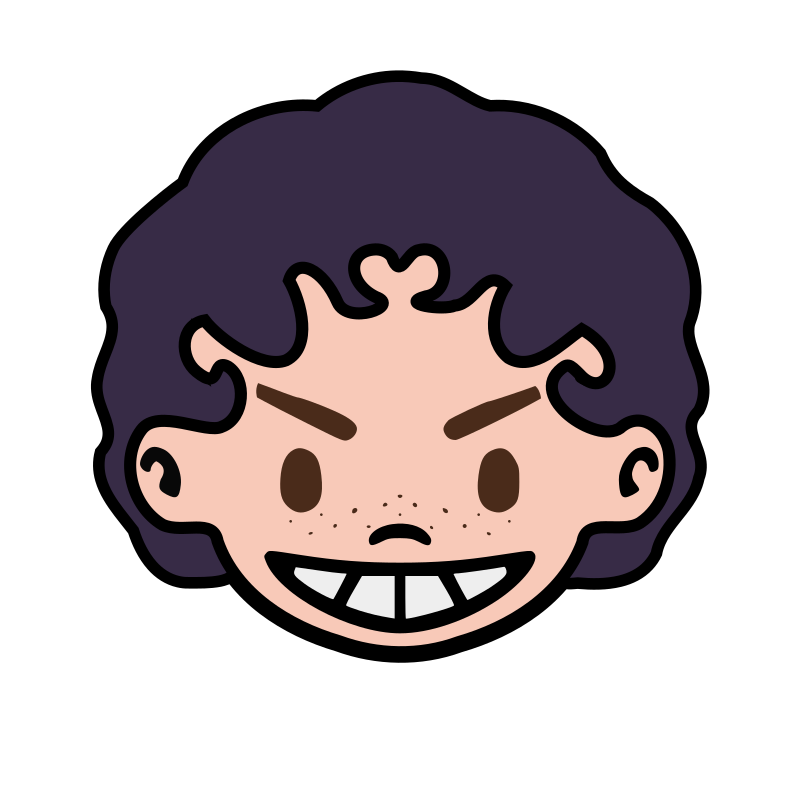
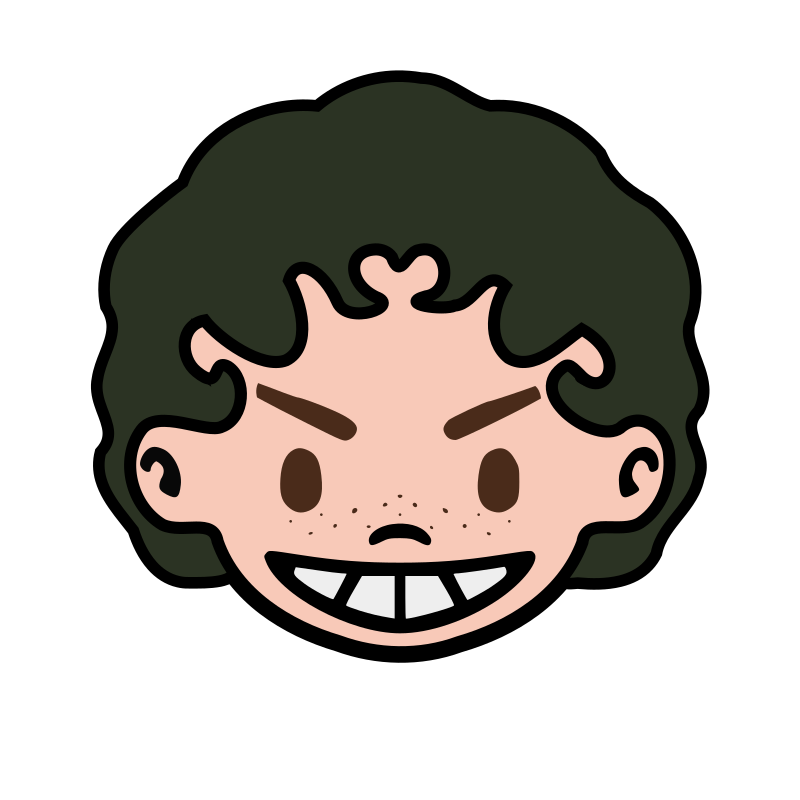
bang bang snapshoted!

Changed region(s): [[0.125, 0.0938, 0.875, 0.75]]

diff --git a/waybar/css/colors.css b/waybar/css/colors.css
@@ -3,103 +3,103 @@
 * Generated with Matugen
 */
 
-    @define-color background #141315;
+    @define-color background #131312;
 
     @define-color error #ffb4ab;
 
     @define-color error_container #93000a;
 
-    @define-color inverse_on_surface #313032;
+    @define-color inverse_on_surface #31302f;
 
-    @define-color inverse_primary #5e5b7b;
+    @define-color inverse_primary #59614f;
 
-    @define-color inverse_surface #e5e1e4;
+    @define-color inverse_surface #e5e2df;
 
-    @define-color on_background #e5e1e4;
+    @define-color on_background #e5e2df;
 
     @define-color on_error #690005;
 
     @define-color on_error_container #ffdad6;
 
-    @define-color on_primary #2f2d4a;
+    @define-color on_primary #2b3323;
 
-    @define-color on_primary_container #ffffff;
+    @define-color on_primary_container #e6efd8;
 
-    @define-color on_primary_fixed #1a1834;
+    @define-color on_primary_fixed #171e10;
 
-    @define-color on_primary_fixed_variant #464362;
+    @define-color on_primary_fixed_variant #414939;
 
-    @define-color on_secondary #302f3b;
+    @define-color on_secondary #2e312a;
 
-    @define-color on_secondary_container #e6e2f2;
+    @define-color on_secondary_container #dfe1d6;
 
-    @define-color on_secondary_fixed #1b1a26;
+    @define-color on_secondary_fixed #1a1d16;
 
-    @define-color on_secondary_fixed_variant #474552;
+    @define-color on_secondary_fixed_variant #454840;
 
-    @define-color on_surface #e5e1e4;
+    @define-color on_surface #e5e2df;
 
-    @define-color on_surface_variant #c9c5ce;
+    @define-color on_surface_variant #c6c7be;
 
-    @define-color on_tertiary #393008;
+    @define-color on_tertiary #3c2b35;
 
-    @define-color on_tertiary_container #282000;
+    @define-color on_tertiary_container #ffe4f0;
 
-    @define-color on_tertiary_fixed #221b00;
+    @define-color on_tertiary_fixed #261720;
 
-    @define-color on_tertiary_fixed_variant #51461d;
+    @define-color on_tertiary_fixed_variant #54414b;
 
-    @define-color outline #928f98;
+    @define-color outline #909289;
 
-    @define-color outline_variant #47464d;
+    @define-color outline_variant #454841;
 
-    @define-color primary #c7c2e7;
+    @define-color primary #c1cab4;
 
-    @define-color primary_container #656282;
+    @define-color primary_container #48503f;
 
-    @define-color primary_fixed #e4dfff;
+    @define-color primary_fixed #dde6cf;
 
-    @define-color primary_fixed_dim #c7c2e7;
+    @define-color primary_fixed_dim #c1cab4;
 
     @define-color scrim #000000;
 
-    @define-color secondary #c8c4d4;
+    @define-color secondary #c5c8bd;
 
-    @define-color secondary_container #494855;
+    @define-color secondary_container #454840;
 
-    @define-color secondary_fixed #e4e0f1;
+    @define-color secondary_fixed #e2e4d9;
 
-    @define-color secondary_fixed_dim #c8c4d4;
+    @define-color secondary_fixed_dim #c5c8bd;
 
     @define-color shadow #000000;
 
-    @define-color source_color #656282;
+    @define-color source_color #48503f;
 
-    @define-color surface #141315;
+    @define-color surface #131312;
 
-    @define-color surface_bright #3a393b;
+    @define-color surface_bright #393937;
 
-    @define-color surface_container #201f21;
+    @define-color surface_container #20201e;
 
-    @define-color surface_container_high #2a292c;
+    @define-color surface_container_high #2a2a28;
 
-    @define-color surface_container_highest #353437;
+    @define-color surface_container_highest #353533;
 
-    @define-color surface_container_low #1c1b1d;
+    @define-color surface_container_low #1b1c1a;
 
-    @define-color surface_container_lowest #0e0e10;
+    @define-color surface_container_lowest #0e0e0d;
 
-    @define-color surface_dim #141315;
+    @define-color surface_dim #131312;
 
-    @define-color surface_tint #c7c2e7;
+    @define-color surface_tint #c1cab4;
 
-    @define-color surface_variant #47464d;
+    @define-color surface_variant #454841;
 
-    @define-color tertiary #d6c691;
+    @define-color tertiary #d9c0cc;
 
-    @define-color tertiary_container #baab78;
+    @define-color tertiary_container #5b4852;
 
-    @define-color tertiary_fixed #f3e2ab;
+    @define-color tertiary_fixed #f6dbe8;
 
-    @define-color tertiary_fixed_dim #d6c691;
+    @define-color tertiary_fixed_dim #d9c0cc;
 

diff --git a/hypr/scripts/materia-theme/src/_theme-color.scss b/hypr/scripts/materia-theme/src/_theme-color.scss
@@ -58,14 +58,14 @@ $on-dark: #fff;
 // Main colors
 //
 
-$surface-z0: #2f2d4a;
-$surface-z1: #c7c2e7;
-$surface-z8: #c7c2e7;
-$surface-switch-thumb: #141315;
+$surface-z0: #2b3323;
+$surface-z1: #c1cab4;
+$surface-z8: #c1cab4;
+$surface-switch-thumb: #131312;
 $on-surface: on($surface-z0);
 
-$primary-on-light: #c7c2e7;;
-$primary-on-dark: #c7c2e7;
+$primary-on-light: #c1cab4;;
+$primary-on-dark: #c1cab4;
 $primary: $primary-on-light;
 $on-primary: on($primary);
 
@@ -89,7 +89,7 @@ $visited-on-dark: #c58af9;
 $visited: $visited-on-light;
 $on-visited: on($visited);
 
-$system: #141315;
+$system: #131312;
 $on-system: on($system);
 
 $tooltip: rgba(#616161, .9);
@@ -115,7 +115,7 @@ $on-titlebar: on($titlebar);
 $titlebar-indicator: currentcolor;
 
 @if theme.$dark-theme {
-  $surface-z0: rgba(#2f2d4a, 0.5);
+  $surface-z0: rgba(#2b3323, 0.5);
   $surface-z1: color.mix(white, $surface-z0, 5%);
   $surface-z8: color.mix(white, $surface-z0, 12%);
   $surface-switch-thumb: color.mix(white, $surface-z0, 60%);
